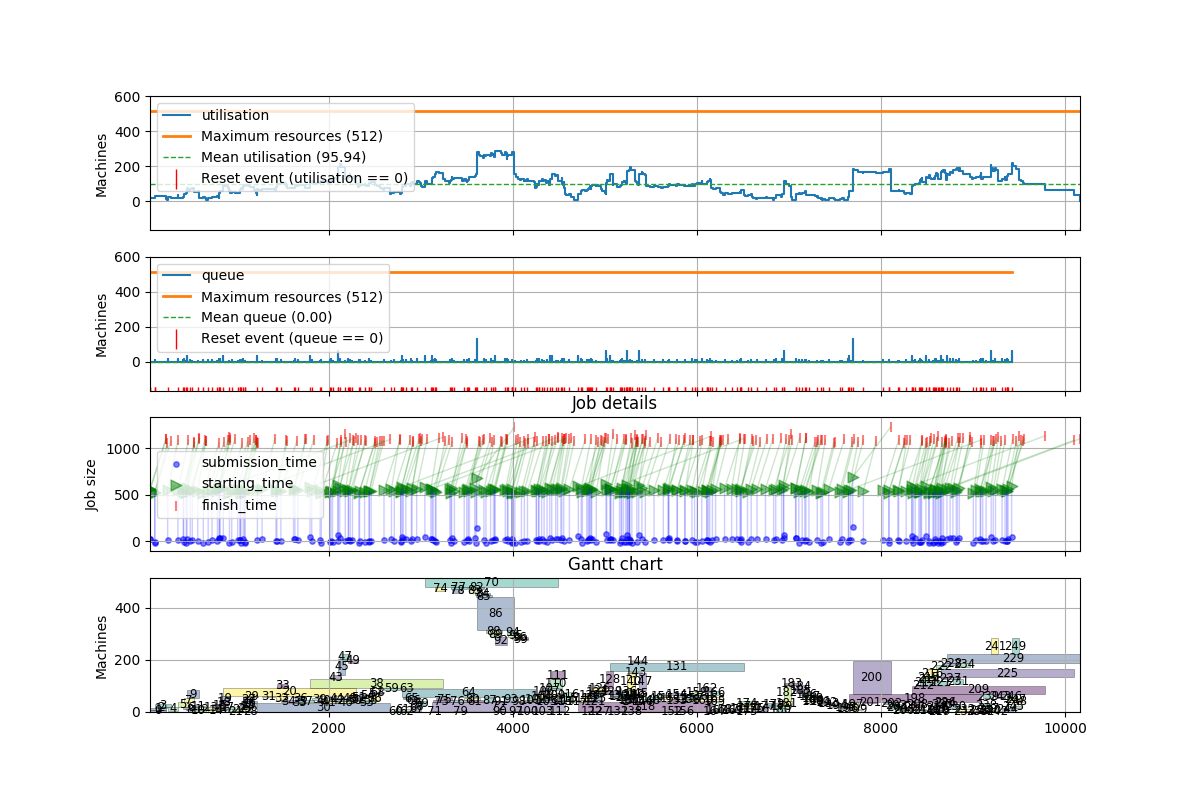
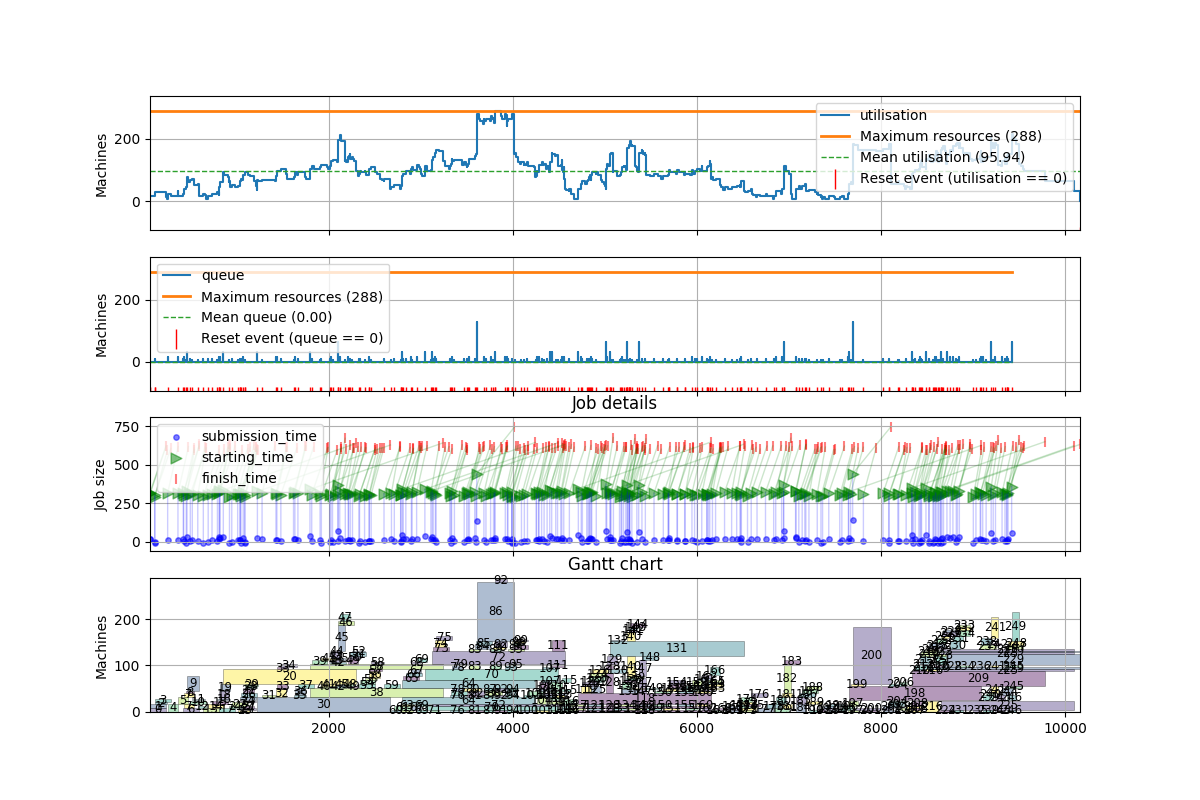
greedy scheduler

diff --git a/schedulers/greedy/greedy_sched.py b/schedulers/greedy/greedy_sched.py
@@ -1,0 +1,47 @@
+from itertools import islice
+from procset import ProcSet
+from batsim.batsim import BatsimScheduler
+
+class Greedy_sched(BatsimScheduler):
+
+    def onSimulationBegins(self):
+        self.nb_completed_jobs = 0
+        self.jobs_completed = []
+        self.jobs_waiting = []
+        self.sched_delay = 0.005
+        self.openJobs = set()
+        self.availableResources = ProcSet((0,self.bs.nb_compute_resources-1))
+
+    def scheduleJobs(self):
+        scheduledJobs = []
+
+        # Ordenar trabajos abiertos por recursos requeridos, de menor a mayor
+        sortedJobs = sorted(self.openJobs, key=lambda job: job.requested_resources)
+
+        for job in sortedJobs:
+            nb_res_req = job.requested_resources
+
+            if nb_res_req <= len(self.availableResources):
+                job_alloc = ProcSet(*islice(self.availableResources, nb_res_req))
+                job.allocation = job_alloc
+                scheduledJobs.append(job)
+
+                self.availableResources -= job_alloc
+                self.openJobs.remove(job)
+
+        self.bs.consume_time(self.sched_delay)
+
+        if len(scheduledJobs) > 0:
+            self.bs.execute_jobs(scheduledJobs)
+
+    def onJobSubmission(self, job):
+        if job.requested_resources > self.bs.nb_compute_resources:
+            self.bs.reject_jobs([job])
+        else:
+            self.openJobs.add(job)
+
+    def onJobCompletion(self, job):
+        self.availableResources |= job.allocation
+
+    def onNoMoreEvents(self):
+        self.scheduleJobs()

diff --git a/analysis/analysis.py b/analysis/analysis.py
@@ -1,7 +1,7 @@
 from evalys.jobset import JobSet
 import matplotlib.pyplot as plt
 
-js = JobSet.from_csv("../output/sim_sched_jobs.csv")
+js = JobSet.from_csv("../output/greedy_jobs.csv")
 js.plot(with_details=True)
 
 plt.savefig('grafica.png')
